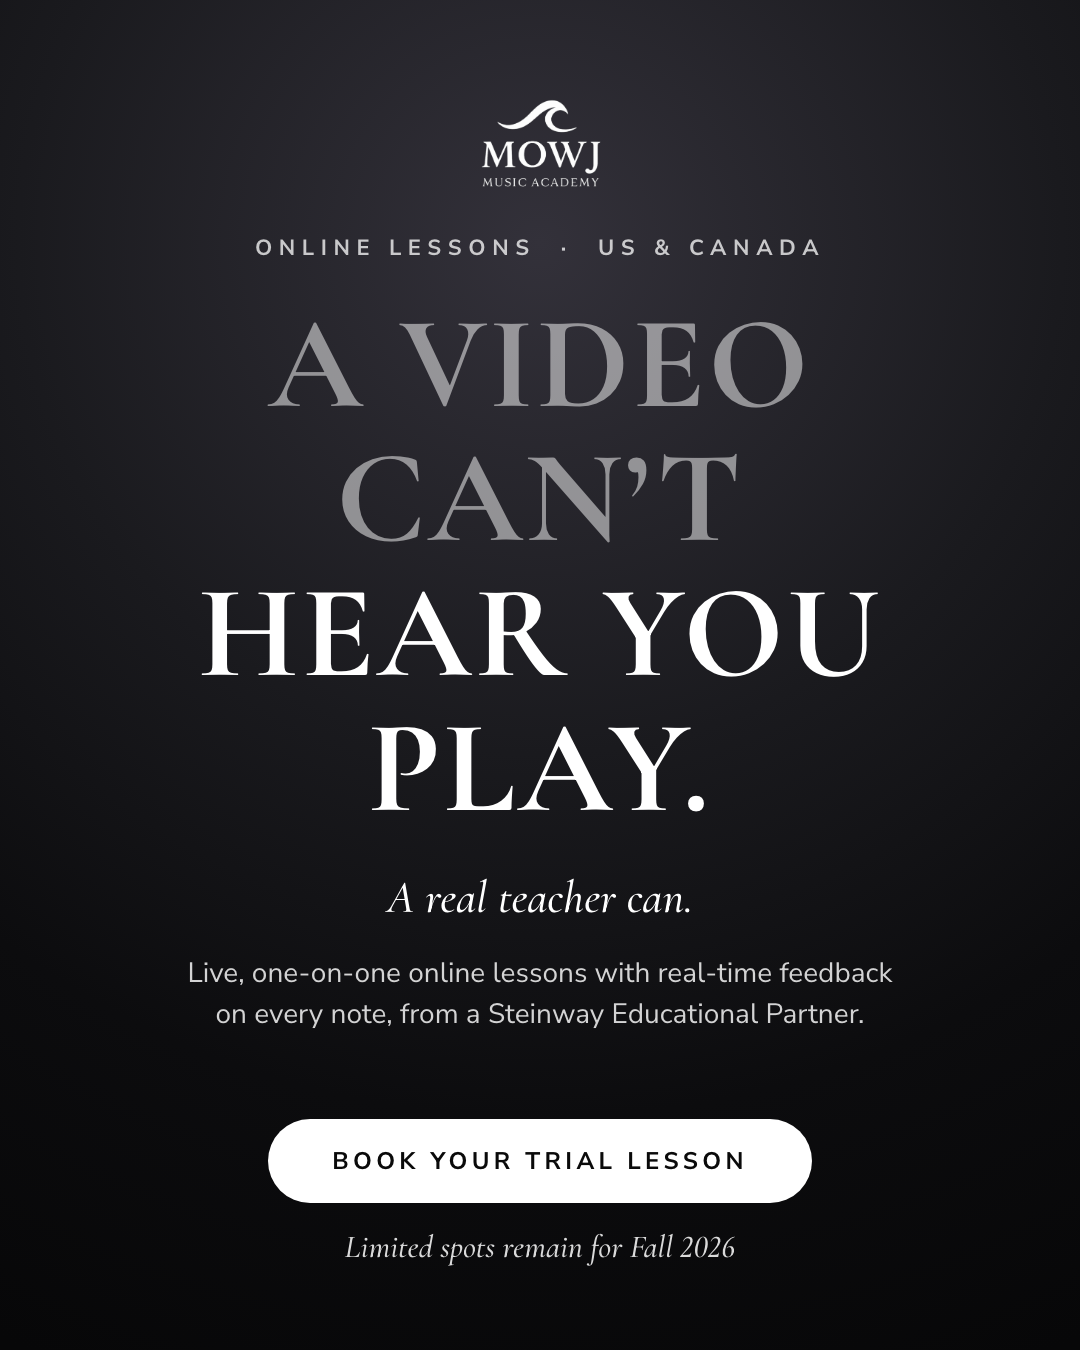
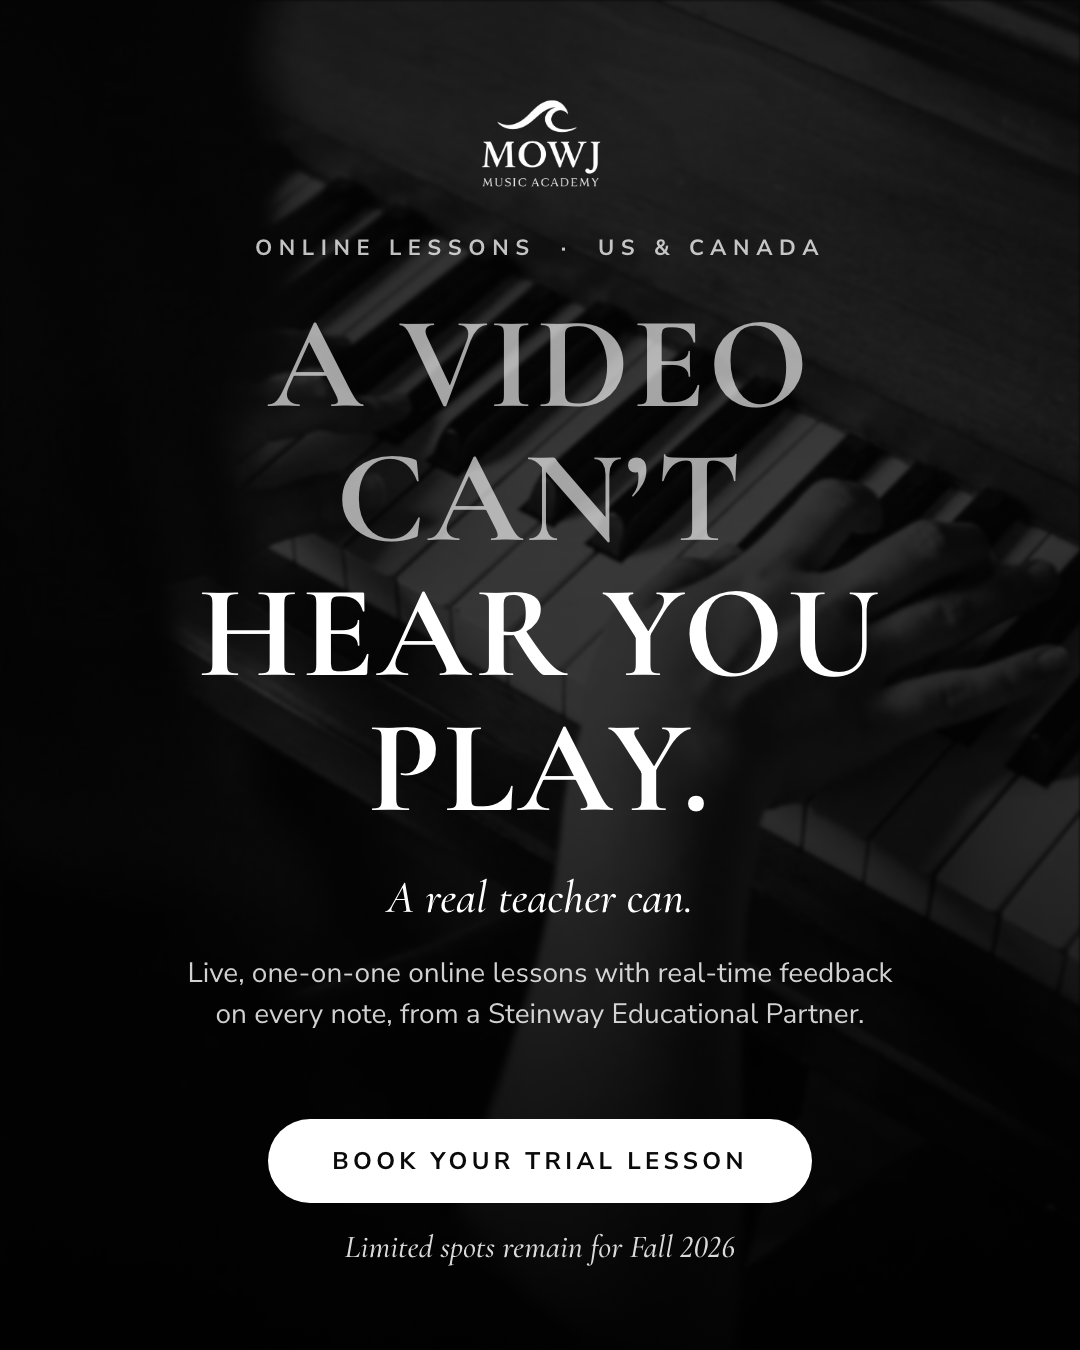
Add piano photo background to the 'A video can't hear you play' ad

diff --git a/social/11-ad-online-video.html b/social/11-ad-online-video.html
@@ -6,12 +6,14 @@
 <script>if (location.hash === "#story") document.documentElement.classList.add("story");</script>
 <link rel="stylesheet" href="base.css" />
 <style>
-  .content { position: relative; height: 100%; display: flex; flex-direction: column; align-items: center; padding: 96px 90px 84px; }
+  .photo { opacity: 0.5; object-position: 55% 40%; filter: blur(1.5px); }
+  .shade { position: absolute; inset: 0; background: linear-gradient(180deg, rgba(0,0,0,.6) 0%, rgba(0,0,0,.5) 35%, rgba(0,0,0,.6) 60%, rgba(0,0,0,.88) 100%); }
+  .content { position: relative; z-index: 2; height: 100%; display: flex; flex-direction: column; align-items: center; padding: 96px 90px 84px; }
   .logo { height: 96px; }
   .spacer { flex: 1; }
   .eyebrow { font-size: 22px; color: rgba(255,255,255,.75); }
   .title { font-size: 132px; line-height: 1.02; margin-top: 34px; }
-  .title .dim { color: rgba(255,255,255,.5); }
+  .title .dim { color: rgba(255,255,255,.64); }
   .more { margin-top: 34px; font-size: 46px; font-style: italic; font-weight: 500; }
   .tag { margin-top: 28px; font-size: 28px; line-height: 1.45; color: rgba(255,255,255,.82); max-width: 820px; text-wrap: balance; }
   .pill { margin-top: 44px; }
@@ -22,7 +24,9 @@
 </style>
 </head>
 <body>
-  <div class="post hero-gradient">
+  <div class="post">
+    <img class="photo" src="assets/keys.jpg" alt="" />
+    <div class="shade"></div>
     <div class="content">
       <img class="logo" src="assets/logo-white.webp" alt="" />
       <div class="spacer"></div>
